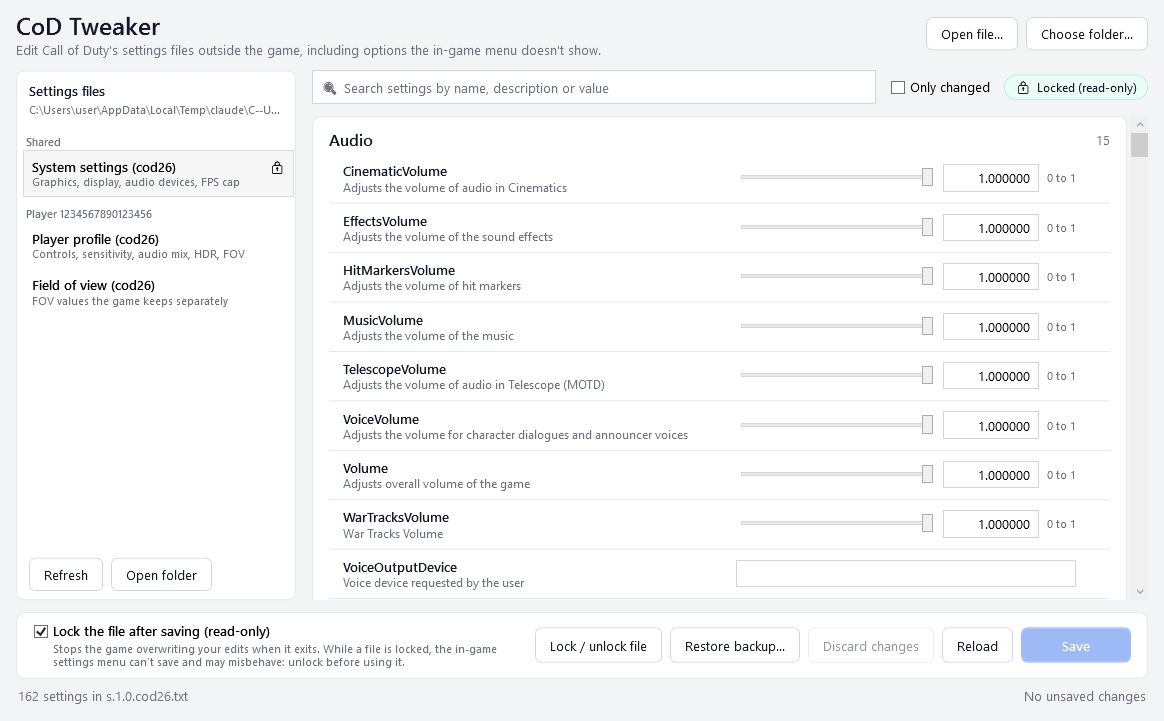
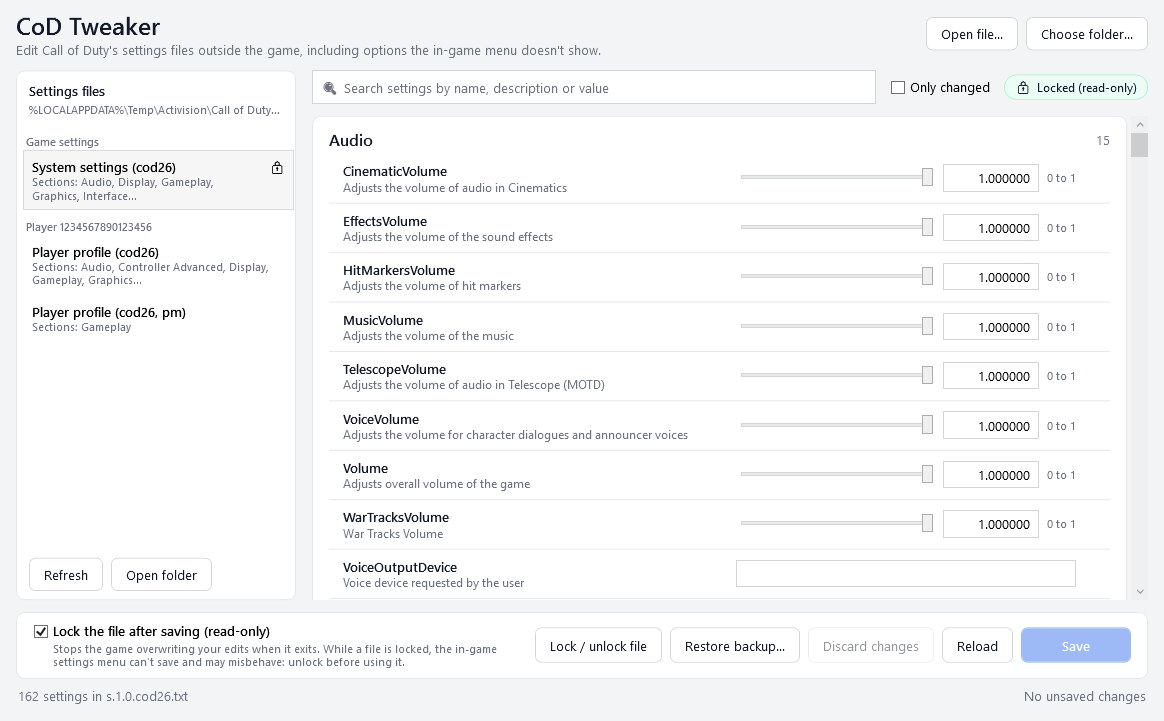
Find settings files by content, not by exact name
Any .txt in the players folder (and its per-player subfolders) that
parses as the game's settings format is listed, so new seasons, new
games and renamed files show up. Titles come from the codNN token in
the name, subtitles from the sections inside the file. The 2022-2024
games' options.N.codNN.txt format (Key:0.0 = "value") parses and
round-trips too. Copies such as *_bak.txt are listed under
"Other copies". The Documents-folder location older games used is
checked as well. Folder paths are shown with %LOCALAPPDATA% in place
of the profile path. Author and copyright: Spock.

Changed region(s): [[0.0309, 0.2441, 0.2165, 0.4577], [0.0309, 0.1221, 0.1856, 0.2136]]

diff --git a/src/CoDTweaker/MainWindow.xaml b/src/CoDTweaker/MainWindow.xaml
@@ -136,7 +136,7 @@
             <Border Grid.Column="0" Background="{StaticResource Panel}" BorderBrush="{StaticResource PanelBorder}" BorderThickness="1" CornerRadius="8">
                 <DockPanel>
                     <TextBlock DockPanel.Dock="Top" Text="Settings files" FontWeight="SemiBold" Margin="12,10,12,4"/>
-                    <TextBlock DockPanel.Dock="Top" Text="{Binding PlayersFolder}" Foreground="{StaticResource Muted}" FontSize="11"
+                    <TextBlock DockPanel.Dock="Top" Text="{Binding PlayersFolderDisplay}" Foreground="{StaticResource Muted}" FontSize="11"
                                Margin="12,0,12,8" TextTrimming="CharacterEllipsis" ToolTip="{Binding PlayersFolder}"/>
                     <StackPanel DockPanel.Dock="Bottom" Orientation="Horizontal" Margin="12,8">
                         <Button Content="Refresh" Command="{Binding RefreshCommand}" Margin="0,0,8,0"/>
@@ -144,7 +144,7 @@
                     </StackPanel>
                     <TextBlock DockPanel.Dock="Top" Margin="12,8" TextWrapping="Wrap" Foreground="{StaticResource Muted}"
                                Visibility="{Binding HasNoFiles, Converter={StaticResource BoolVis}}"
-                               Text="No settings files found. Start Call of Duty once so it creates them, or use Choose folder."/>
+                               Text="No settings files found here. Start Call of Duty once so it creates them, or use Choose folder. Any file in the game's settings format is picked up, whatever it is called."/>
                     <ListBox x:Name="FileList" SelectedItem="{Binding SelectedFile}"
                              BorderThickness="0" Background="Transparent" HorizontalContentAlignment="Stretch"
                              ScrollViewer.HorizontalScrollBarVisibility="Disabled">

diff --git a/src/CoDTweaker/Services/FileLocator.cs b/src/CoDTweaker/Services/FileLocator.cs
@@ -1,50 +1,124 @@
 using System.IO;
 using System.Text.RegularExpressions;
+using CoDTweaker.Models;
 
 namespace CoDTweaker.Services;
 
-public sealed record SettingsFileInfo(string Path, string Title, string Subtitle, string Group);
+public sealed record SettingsFileInfo(string Path, string Title, string Subtitle, string Group, int Order);
 
-/// <summary>Finds Call of Duty's settings files.</summary>
+/// <summary>
+/// Finds Call of Duty's settings files. A file counts if its contents are in the game's settings
+/// format, whatever it is called, so new seasons, new games and renamed files still show up.
+/// </summary>
 public static class FileLocator
 {
-    // s.1.0.cod26.txt  -> system settings (graphics, display, audio devices) for that game build
-    static readonly Regex SystemRx = new(@"^s\.\d+\.\d+\.(cod\d+)\.txt$", RegexOptions.IgnoreCase | RegexOptions.Compiled);
-    // g.p.cod26.1.0.l.txt / g.p.cod26.pm.1.0.l.txt -> the player's profile (controls, FOV, audio mix)
-    static readonly Regex ProfileRx = new(@"^g\.p\.(cod\d+)(\.pm)?\.\d+\.\d+\.l\.txt$", RegexOptions.IgnoreCase | RegexOptions.Compiled);
+    // s.1.0.cod26.txt -> system settings (graphics, display, audio devices); the numbers change between builds
+    static readonly Regex SystemRx = new(@"^s\.[\d.]+\.(cod\d+)\.txt$", RegexOptions.IgnoreCase | RegexOptions.Compiled);
+    // g.p.cod26.1.0.l.txt, g.p.cod26.pm.1.0.l.txt -> the player's profile (controls, FOV, audio mix)
+    static readonly Regex ProfileRx = new(@"^g\.p\.(cod\d+)(\.[a-z][a-z0-9]*)?\.[\d.]+\.l\.txt$", RegexOptions.IgnoreCase | RegexOptions.Compiled);
+    // options.4.cod23.txt -> the 2022-2024 games
+    static readonly Regex OptionsRx = new(@"^options\.[\d.]+\.(cod\d+)\.txt$", RegexOptions.IgnoreCase | RegexOptions.Compiled);
+    static readonly Regex GamerProfileRx = new(@"^gamerprofile.*\.(cod\d+)\.txt$", RegexOptions.IgnoreCase | RegexOptions.Compiled);
+    static readonly Regex GameTokenRx = new(@"\bcod\d{2}\b", RegexOptions.IgnoreCase | RegexOptions.Compiled);
+    static readonly Regex CopyRx = new(@"bak|backup|copy|old|orig|before|\(\d+\)", RegexOptions.IgnoreCase | RegexOptions.Compiled);
 
-    public static string DefaultPlayersFolder =>
-        Path.Combine(Environment.GetFolderPath(Environment.SpecialFolder.LocalApplicationData), "Activision", "Call of Duty", "players");
+    /// <summary>Where the game keeps its files: the current location first, then the one older games used.</summary>
+    public static IEnumerable<string> DefaultFolders
+    {
+        get
+        {
+            yield return Path.Combine(Environment.GetFolderPath(Environment.SpecialFolder.LocalApplicationData), "Activision", "Call of Duty", "players");
+            yield return Path.Combine(Environment.GetFolderPath(Environment.SpecialFolder.MyDocuments), "Call of Duty", "players");
+        }
+    }
+
+    public static string DefaultPlayersFolder => DefaultFolders.FirstOrDefault(Directory.Exists) ?? DefaultFolders.First();
 
     public static List<SettingsFileInfo> Find(string playersFolder)
     {
         var list = new List<SettingsFileInfo>();
         if (!Directory.Exists(playersFolder)) return list;
+        Scan(playersFolder, "Game settings", list);
+        foreach (var dir in SafeDirs(playersFolder))
+            Scan(dir, "Player " + Path.GetFileName(dir), list);
+        return list.OrderBy(f => f.Order).ThenBy(f => f.Group, StringComparer.OrdinalIgnoreCase).ThenBy(f => f.Title, StringComparer.OrdinalIgnoreCase).ToList();
+    }
 
-        foreach (var f in Directory.EnumerateFiles(playersFolder, "*.txt").OrderBy(f => f, StringComparer.OrdinalIgnoreCase))
+    static IEnumerable<string> SafeDirs(string dir)
+    {
+        try { return Directory.EnumerateDirectories(dir).OrderBy(d => d, StringComparer.OrdinalIgnoreCase).ToList(); }
+        catch { return Array.Empty<string>(); }
+    }
+
+    static void Scan(string dir, string group, List<SettingsFileInfo> list)
+    {
+        IEnumerable<string> files;
+        try { files = Directory.EnumerateFiles(dir, "*.txt").OrderBy(f => f, StringComparer.OrdinalIgnoreCase).ToList(); }
+        catch { return; }
+        foreach (var f in files)
         {
-            var m = SystemRx.Match(Path.GetFileName(f));
-            if (m.Success)
-                list.Add(new SettingsFileInfo(f, $"System settings ({m.Groups[1].Value})", "Graphics, display, audio devices, FPS cap", "Shared"));
+            var sections = Sniff(f);
+            if (sections != null) list.Add(Classify(f, group, sections));
         }
-        foreach (var dir in Directory.EnumerateDirectories(playersFolder).OrderBy(d => d, StringComparer.OrdinalIgnoreCase))
+    }
+
+    /// <summary>The file's section names if it is in the game's settings format, otherwise null.</summary>
+    public static List<string>? Sniff(string path)
+    {
+        try
         {
-            string id = Path.GetFileName(dir);
-            if (!id.All(char.IsDigit)) continue;
-            foreach (var f in Directory.EnumerateFiles(dir, "*.txt").OrderBy(f => f, StringComparer.OrdinalIgnoreCase))
+            if (new FileInfo(path).Length > 4_000_000) return null;
+            var doc = SettingsDocument.Load(path);
+            return doc.AllSettings.Any() ? doc.Sections.Select(s => s.Name).ToList() : null;
+        }
+        catch { return null; }
+    }
+
+    public static SettingsFileInfo Classify(string path, string group, List<string> sections)
+    {
+        string name = Path.GetFileName(path);
+        // "Sections: Audio, Display, Gameplay..." cut at a section boundary, not mid-word.
+        string subtitle = "";
+        if (sections.Count > 0)
+        {
+            var shown = new List<string>();
+            foreach (var s in sections)
             {
-                var m = ProfileRx.Match(Path.GetFileName(f));
-                if (!m.Success) continue;
-                bool pm = m.Groups[2].Success;
-                list.Add(new SettingsFileInfo(f,
-                    pm ? $"Field of view ({m.Groups[1].Value})" : $"Player profile ({m.Groups[1].Value})",
-                    pm ? "FOV values the game keeps separately" : "Controls, sensitivity, audio mix, HDR, FOV",
-                    $"Player {id}"));
+                if (shown.Count > 0 && string.Join(", ", shown).Length + s.Length > 55) break;
+                shown.Add(s);
             }
+            subtitle = "Sections: " + string.Join(", ", shown) + (shown.Count < sections.Count ? "..." : "");
         }
-        return list;
+
+        // A second ".txt" in the name, or words like "bak", mean someone's own copy of a settings file.
+        string stem = name[..^4];
+        bool isCopy = stem.Contains(".txt", StringComparison.OrdinalIgnoreCase) || CopyRx.IsMatch(stem);
+        if (isCopy) return new SettingsFileInfo(path, name, subtitle, "Other copies", 9);
+
+        Match m;
+        if ((m = SystemRx.Match(name)).Success) return new(path, $"System settings ({m.Groups[1].Value})", subtitle, group, 1);
+        if ((m = OptionsRx.Match(name)).Success) return new(path, $"Options ({m.Groups[1].Value})", subtitle, group, 1);
+        if ((m = ProfileRx.Match(name)).Success)
+        {
+            string tag = m.Groups[2].Success ? ", " + m.Groups[2].Value.TrimStart('.') : "";
+            return new(path, $"Player profile ({m.Groups[1].Value}{tag})", subtitle, group, 2);
+        }
+        if ((m = GamerProfileRx.Match(name)).Success) return new(path, $"Player profile ({m.Groups[1].Value})", subtitle, group, 2);
+
+        // Unknown name but the right format: show it under its own name.
+        return new(path, name, subtitle, group, 3);
     }
 
     public static SettingsFileInfo Describe(string path) =>
-        new(path, Path.GetFileName(path), Path.GetDirectoryName(path) ?? "", "Other files");
+        Classify(path, "Other files", Sniff(path) ?? new List<string>());
+
+    /// <summary>A folder path with the user's profile folders shortened, for display.</summary>
+    public static string DisplayPath(string path)
+    {
+        string local = Environment.GetFolderPath(Environment.SpecialFolder.LocalApplicationData);
+        string profile = Environment.GetFolderPath(Environment.SpecialFolder.UserProfile);
+        if (local.Length > 0 && path.StartsWith(local, StringComparison.OrdinalIgnoreCase)) return "%LOCALAPPDATA%" + path[local.Length..];
+        if (profile.Length > 0 && path.StartsWith(profile, StringComparison.OrdinalIgnoreCase)) return "%USERPROFILE%" + path[profile.Length..];
+        return path;
+    }
 }

diff --git a/tests/CoDTweaker.Tests/FileLocatorTests.cs b/tests/CoDTweaker.Tests/FileLocatorTests.cs
@@ -1,0 +1,88 @@
+using System.IO;
+using System.Text;
+using CoDTweaker.Models;
+using CoDTweaker.Services;
+using Xunit;
+
+namespace CoDTweaker.Tests;
+
+public class FileLocatorTests : IDisposable
+{
+    readonly string _root = Path.Combine(Path.GetTempPath(), "CoDTweakerTests", Guid.NewGuid().ToString("N"));
+    readonly string _sample;
+
+    // The format the 2022-2024 games wrote: ':' in the key and quoted values.
+    const string OldStyle = "//\n// Audio\n\n// Adjusts overall volume of the game\nVolume:0.0 = \"1.000000\" // 0.000000 to 1.000000\n\n// Fullscreen mode\nDisplayMode:0.0 = \"Fullscreen\" // one of Windowed, Fullscreen\n";
+
+    public FileLocatorTests()
+    {
+        _sample = File.ReadAllText(Path.Combine(AppContext.BaseDirectory, "Fixtures", "sample.txt")).Replace("\r\n", "\n");
+        Directory.CreateDirectory(Path.Combine(_root, "1234567890123456"));
+        Directory.CreateDirectory(Path.Combine(_root, "shaders"));
+        Put("s.1.0.cod26.txt", _sample);
+        Put("s.2.3.cod27.txt", _sample);                        // a later build's numbers
+        Put("options.4.cod23.txt", OldStyle);                    // an older game
+        Put("s.1.0.cod26.txt_bak.txt", _sample);                 // the player's own copy
+        Put("s.1.0.cod26.txt.before-review-2026.txt", _sample);  // another copy
+        Put("something_renamed.txt", _sample);                   // right format, unknown name
+        Put("notes.txt", "my loadout ideas\nnot a settings file\n");
+        Put(Path.Combine("1234567890123456", "g.p.cod26.1.0.l.txt"), _sample);
+        Put(Path.Combine("1234567890123456", "g.p.cod26.pm.1.0.l.txt"), _sample);
+        Put(Path.Combine("shaders", "cache.txt"), "binaryish\x00stuff");
+    }
+
+    void Put(string rel, string text) => File.WriteAllBytes(Path.Combine(_root, rel), Encoding.UTF8.GetBytes(text));
+
+    public void Dispose() => Directory.Delete(_root, recursive: true);
+
+    [Fact]
+    public void Recognises_files_by_content_and_names_them_from_the_pattern()
+    {
+        var files = FileLocator.Find(_root);
+        var byName = files.ToDictionary(f => Path.GetFileName(f.Path));
+
+        Assert.Equal("System settings (cod26)", byName["s.1.0.cod26.txt"].Title);
+        Assert.Equal("System settings (cod27)", byName["s.2.3.cod27.txt"].Title);
+        Assert.Equal("Options (cod23)", byName["options.4.cod23.txt"].Title);
+        Assert.Equal("Player profile (cod26)", byName["g.p.cod26.1.0.l.txt"].Title);
+        Assert.Equal("Player profile (cod26, pm)", byName["g.p.cod26.pm.1.0.l.txt"].Title);
+        Assert.Equal("Player 1234567890123456", byName["g.p.cod26.1.0.l.txt"].Group);
+        Assert.Equal("something_renamed.txt", byName["something_renamed.txt"].Title);
+        Assert.Equal("Game settings", byName["something_renamed.txt"].Group);
+        Assert.Equal("Other copies", byName["s.1.0.cod26.txt_bak.txt"].Group);
+        Assert.Equal("Other copies", byName["s.1.0.cod26.txt.before-review-2026.txt"].Group);
+        Assert.DoesNotContain("notes.txt", byName.Keys);
+        Assert.DoesNotContain("cache.txt", byName.Keys);
+        Assert.StartsWith("Sections: Audio, Display, System", byName["s.1.0.cod26.txt"].Subtitle);
+
+        // Real files first, copies last.
+        Assert.Equal("Other copies", files[^1].Group);
+        Assert.Equal("Game settings", files[0].Group);
+    }
+
+    [Fact]
+    public void Old_style_files_parse_and_round_trip()
+    {
+        var bytes = Encoding.UTF8.GetBytes(OldStyle);
+        var doc = SettingsDocument.Parse("options.4.cod23.txt", bytes);
+        Assert.Equal(bytes, doc.RenderBytes());
+
+        var vol = doc.AllSettings.Single(s => s.Name == "Volume");
+        Assert.Equal(SettingKind.Number, vol.Kind);
+        Assert.Equal("1.000000", vol.OriginalValue);
+        Assert.True(vol.Quoted);
+        Assert.Equal("Volume:0.0 = \"0.500000\" // 0.000000 to 1.000000", vol.RenderLine("0.500000"));
+
+        var mode = doc.AllSettings.Single(s => s.Name == "DisplayMode");
+        Assert.Equal(SettingKind.Choice, mode.Kind);
+        Assert.Equal("Fullscreen", mode.OriginalValue);
+    }
+
+    [Fact]
+    public void Display_path_hides_the_user_profile()
+    {
+        string local = Environment.GetFolderPath(Environment.SpecialFolder.LocalApplicationData);
+        Assert.Equal(@"%LOCALAPPDATA%\Activision\Call of Duty\players", FileLocator.DisplayPath(Path.Combine(local, "Activision", "Call of Duty", "players")));
+        Assert.Equal(@"D:\Games\players", FileLocator.DisplayPath(@"D:\Games\players"));
+    }
+}

diff --git a/src/CoDTweaker/Models/SettingsDocument.cs b/src/CoDTweaker/Models/SettingsDocument.cs
@@ -23,6 +23,8 @@ public sealed class Setting
     public required string OriginalValue { get; init; }
     /// <summary>The text after " // ", e.g. "0.000000 to 1.000000" or "one of Off, On".</summary>
     public string? Constraint { get; init; }
+    /// <summary>Older games wrote values in double quotes; they go back the same way.</summary>
+    public bool Quoted { get; init; }
     public SettingKind Kind { get; init; }
     public double Min { get; init; }
     public double Max { get; init; }
@@ -62,8 +64,11 @@ public sealed class Setting
         }
     }
 
-    public string RenderLine(string value) =>
-        Constraint is null ? $"{Key} = {value}" : $"{Key} = {value} // {Constraint}";
+    public string RenderLine(string value)
+    {
+        if (Quoted) value = "\"" + value + "\"";
+        return Constraint is null ? $"{Key} = {value}" : $"{Key} = {value} // {Constraint}";
+    }
 }
 
 public sealed class Section
@@ -144,15 +149,19 @@ public sealed class SettingsDocument
         string value = rest;
         if (c >= 0) { value = rest[..c]; constraint = rest[(c + 4)..]; }
 
-        int at = key.LastIndexOf('@');
+        // "Fov@0;24892;9411" (current games) or "Fov:0.0" (2022-2024 games): the readable name stops at '@' or ':'.
+        int at = key.IndexOfAny(new[] { '@', ':' });
         string name = at > 0 ? key[..at] : key;
         int variant = 0;
-        if (at > 0)
+        if (at > 0 && key[at] == '@')
         {
             int semi = key.IndexOf(';', at);
             string v = semi > at ? key[(at + 1)..semi] : key[(at + 1)..];
             int.TryParse(v, out variant);
         }
+
+        bool quoted = value.Length >= 2 && value[0] == '"' && value[^1] == '"';
+        if (quoted) value = value[1..^1];
 
         bool isProtected = description.StartsWith("DO NOT MODIFY", StringComparison.OrdinalIgnoreCase);
         var kind = SettingKind.Text;
@@ -181,7 +190,7 @@ public sealed class SettingsDocument
         return new Setting
         {
             LineIndex = index, Key = key, Name = name, Variant = variant, Description = description,
-            OriginalValue = value, Constraint = constraint, Kind = kind, Min = min, Max = max,
+            OriginalValue = value, Constraint = constraint, Quoted = quoted, Kind = kind, Min = min, Max = max,
             IsFloat = isFloat, Decimals = decimals, Options = options, IsProtected = isProtected,
         };
     }

diff --git a/src/CoDTweaker/ViewModels/MainViewModel.cs b/src/CoDTweaker/ViewModels/MainViewModel.cs
@@ -54,7 +54,8 @@ public sealed class MainViewModel : ObservableObject
     // ----- state shown in the window -----
 
     string _playersFolder;
-    public string PlayersFolder { get => _playersFolder; private set => SetProperty(ref _playersFolder, value); }
+    public string PlayersFolder { get => _playersFolder; private set { if (SetProperty(ref _playersFolder, value)) OnPropertyChanged(nameof(PlayersFolderDisplay)); } }
+    public string PlayersFolderDisplay => FileLocator.DisplayPath(PlayersFolder);
 
     FileItemVm? _selectedFile;
     public FileItemVm? SelectedFile
@@ -129,7 +130,7 @@ public sealed class MainViewModel : ObservableObject
         _selectedFile = again ?? Files.FirstOrDefault();
         OnPropertyChanged(nameof(SelectedFile));
         LoadSelected();
-        if (Files.Count == 0) Status = $"No settings files found in {PlayersFolder}. Start the game once, or choose the folder.";
+        if (Files.Count == 0) Status = $"No settings files found in {PlayersFolderDisplay}. Start the game once, or choose the folder.";
     }
 
     void BrowseFolder()

diff --git a/tests/CoDTweaker.Tests/SaveFlowTests.cs b/tests/CoDTweaker.Tests/SaveFlowTests.cs
@@ -36,12 +36,13 @@ public class SaveFlowTests : IDisposable
     MainViewModel NewVm(bool lockAfterSave) => new(_players, new AppSettings { LockAfterSave = lockAfterSave });
 
     [Fact]
-    public void Finds_the_known_files_and_skips_backups()
+    public void Finds_the_known_files_and_lists_copies_last()
     {
         var vm = NewVm(true);
-        Assert.Equal(new[] { "System settings (cod26)", "Player profile (cod26)" }, vm.Files.Select(f => f.Title));
+        Assert.Equal(new[] { "System settings (cod26)", "Player profile (cod26)", "s.1.0.cod26.txt_bak.txt" }, vm.Files.Select(f => f.Title));
         Assert.Equal("Player 1234567890123456", vm.Files[1].Group);
-        Assert.NotNull(vm.SelectedFile);
+        Assert.Equal("Other copies", vm.Files[2].Group);
+        Assert.Same(vm.Files[0], vm.SelectedFile);
         Assert.True(vm.HasDocument);
     }
 

diff --git a/README.md b/README.md
@@ -8,7 +8,7 @@ Call of Duty keeps its settings in plain text files under `%LOCALAPPDATA%\Activi
 
 ## What it does
 
-- **Finds the files**: the system settings (`s.1.0.cod26.txt`, one per game) and each player's profile files, for every account on the PC.
+- **Finds the files** by what's inside them, not by name: the system settings (`s.1.0.cod26.txt` today; the numbers change with builds and games), each player's profile files for every account on the PC, the `options.4.codNN.txt` files of the 2022-2024 games, and any copies you've made yourself.
 - **Shows every setting** with the game's own description and limits: sliders for numbers, dropdowns for choices, checkboxes for on/off, text for the rest. Values the game detects itself ("DO NOT MODIFY") are shown but not editable.
 - **Search** across names, descriptions and values. **Only changed** shows what you've touched.
 - **Saves exactly**: only the values you changed are rewritten. Comments, order, line endings, everything else stays byte for byte as the game wrote it.
@@ -33,7 +33,7 @@ While a settings file is locked, the game can't save to it. On some builds that 
 
 | | |
 |---|---|
-| Game settings files | `%LOCALAPPDATA%\Activision\Call of Duty\players` |
+| Game settings files | `%LOCALAPPDATA%\Activision\Call of Duty\players` (older games: `Documents\Call of Duty\players`) |
 | Backups made by this app | `%LOCALAPPDATA%\CoDTweaker\backups` |
 | This app's preferences | `%LOCALAPPDATA%\CoDTweaker\settings.json` |
 
